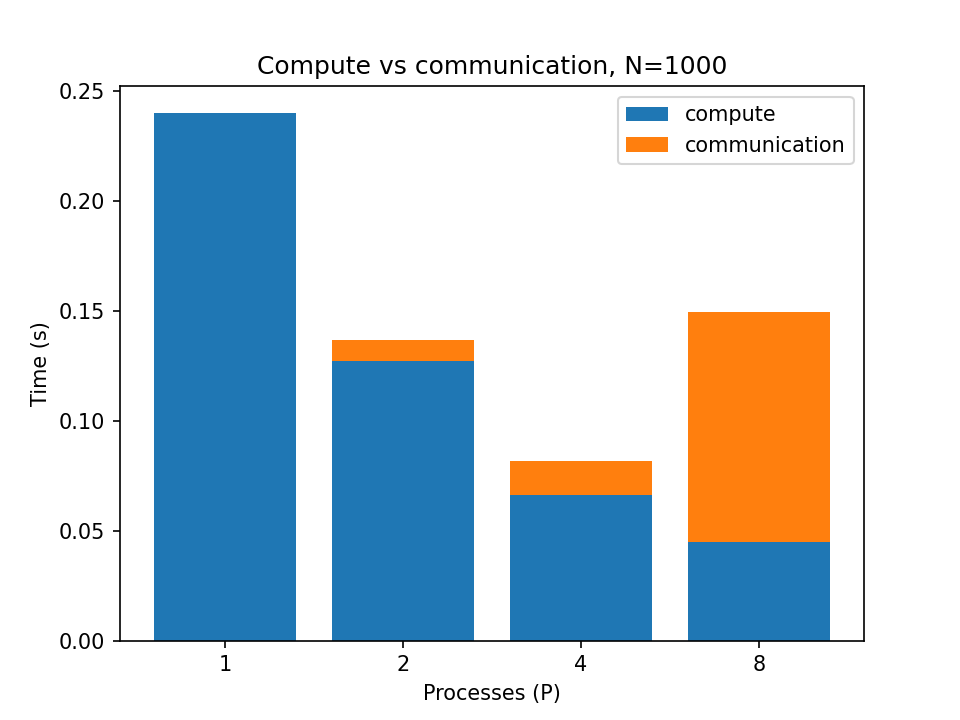
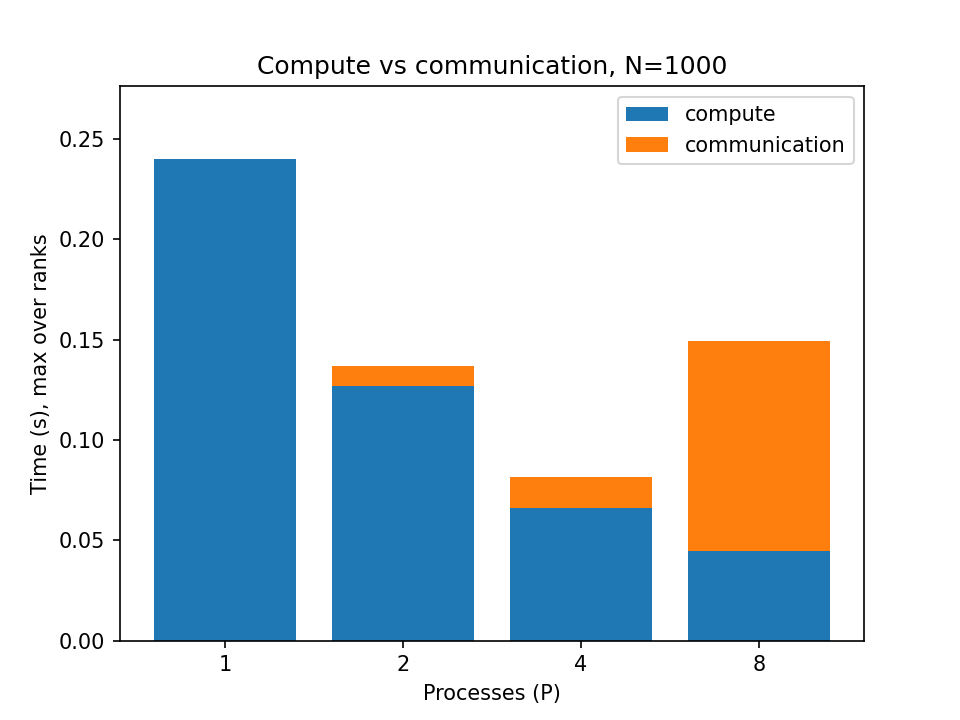
README Barnes-Hut section, extra figures, fixed bar charts

diff --git a/scripts/plot_extra.py b/scripts/plot_extra.py
@@ -1,0 +1,76 @@
+"""Extra figures for the report.
+
+1. results/time_vs_N.png       total time vs N (log-log), sequential and MPI P=1,2,4,8
+2. results/decomposition.png   block decomposition for N=1003, P=4 and the Allgatherv step
+
+Run after plot.py (needs results/seq.csv and results/mpi.csv):
+    python3 scripts/plot_extra.py
+"""
+import pandas as pd
+import matplotlib
+matplotlib.use("Agg")
+import matplotlib.pyplot as plt
+from matplotlib.patches import FancyBboxPatch, FancyArrowPatch
+
+main_N = [100, 500, 1000, 5000, 10000]
+
+# ---------- 1. Total time vs N ----------
+seq = pd.read_csv("results/seq.csv").groupby("N")["total"].median()
+mpi = pd.read_csv("results/mpi.csv").groupby(["N", "P"])["total"].median().reset_index()
+
+plt.figure()
+plt.plot(main_N, [seq[n] for n in main_N], "k^-", label="sequential")
+for P in [1, 2, 4, 8]:
+    d = mpi[(mpi.P == P) & (mpi.N.isin(main_N))].sort_values("N")
+    plt.plot(d.N, d.total, "o-", label=f"MPI, P={P}")
+plt.xscale("log"); plt.yscale("log")
+plt.xlabel("Number of bodies N"); plt.ylabel("Total time for 100 steps (s)")
+plt.title("Total time vs N (direct method)")
+plt.grid(True, which="both", alpha=0.3); plt.legend()
+plt.savefig("results/time_vs_N.png", dpi=150)
+print("Saved results/time_vs_N.png")
+
+# ---------- 2. Decomposition diagram ----------
+N, P = 1003, 4
+base, rem = N // P, N % P
+counts = [base + (1 if r < rem else 0) for r in range(P)]
+displs = [sum(counts[:r]) for r in range(P)]
+colors = ["#4C72B0", "#DD8452", "#55A868", "#C44E52"]
+
+fig, ax = plt.subplots(figsize=(10, 5.2))
+ax.set_xlim(0, 10); ax.set_ylim(0, 5.2); ax.axis("off")
+
+# Global position array split into blocks
+ax.text(5, 4.95, f"Position array of all N = {N} bodies (x, y, z interleaved, 24N bytes)",
+        ha="center", fontsize=11, weight="bold")
+x0, width = 0.5, 9.0
+for r in range(P):
+    w = width * counts[r] / N
+    x = x0 + width * displs[r] / N
+    ax.add_patch(plt.Rectangle((x, 4.15), w, 0.55, color=colors[r], alpha=0.85))
+    ax.text(x + w / 2, 4.42, f"[{displs[r]}, {displs[r] + counts[r]})\n{counts[r]} bodies",
+            ha="center", va="center", fontsize=9, color="white", weight="bold")
+
+# Ranks
+for r in range(P):
+    cx = 1.0 + r * 2.35
+    ax.add_patch(FancyBboxPatch((cx, 1.75), 1.75, 1.45, boxstyle="round,pad=0.05",
+                                fc="white", ec=colors[r], lw=2))
+    ax.text(cx + 0.875, 2.95, f"Rank {r}", ha="center", fontsize=11, weight="bold", color=colors[r])
+    ax.text(cx + 0.875, 2.42, f"updates {counts[r]} bodies\n(own v, a)\nholds all N positions",
+            ha="center", va="center", fontsize=8.5)
+    xb = x0 + width * (displs[r] + counts[r] / 2) / N
+    ax.add_patch(FancyArrowPatch((xb, 4.12), (cx + 0.875, 3.27), arrowstyle="-|>",
+                                 mutation_scale=12, color=colors[r], lw=1.5))
+    ax.add_patch(FancyArrowPatch((cx + 0.875, 1.72), (cx + 0.875, 1.05), arrowstyle="-|>",
+                                 mutation_scale=12, color="0.3", lw=1.5))
+
+# Allgatherv bar
+ax.add_patch(FancyBboxPatch((0.9, 0.45), 9.0 - 0.6, 0.55, boxstyle="round,pad=0.05",
+                            fc="#EEEEEE", ec="0.3", lw=1.5))
+ax.text(5.1, 0.72, "MPI_Allgatherv (MPI_IN_PLACE): every rank receives all updated positions",
+        ha="center", va="center", fontsize=10, weight="bold")
+ax.text(5.1, 0.12, f"base = N / P = {base},  rem = N mod P = {rem}:  ranks r < rem get base + 1  "
+        f"->  counts = {counts}", ha="center", fontsize=9, style="italic")
+plt.savefig("results/decomposition.png", dpi=150, bbox_inches="tight")
+print("Saved results/decomposition.png")

diff --git a/scripts/plot.py b/scripts/plot.py
@@ -38,7 +38,8 @@ for N in main_N:
     plt.figure()
     plt.bar(d.P.astype(str), d.comp, label="compute")
     plt.bar(d.P.astype(str), d.comm, bottom=d.comp, label="communication")
-    plt.xlabel("Processes (P)"); plt.ylabel("Time (s)"); plt.legend()
+    plt.ylim(0, (d.comp + d.comm).max() * 1.15)
+    plt.xlabel("Processes (P)"); plt.ylabel("Time (s), max over ranks"); plt.legend()
     plt.title(f"Compute vs communication, N={N}")
     plt.savefig(f"results/breakdown_N{N}.png", dpi=150)
 

diff --git a/scripts/plot_bh.py b/scripts/plot_bh.py
@@ -54,7 +54,8 @@ s = m[m.N == N].sort_values("P")
 plt.figure()
 plt.bar(s.P.astype(str), s.comp, label="compute")
 plt.bar(s.P.astype(str), s.comm, bottom=s.comp, label="communication")
-plt.xlabel("Processes (P)"); plt.ylabel("Time (s)")
+plt.ylim(0, (s.comp + s.comm).max() * 1.15)
+plt.xlabel("Processes (P)"); plt.ylabel("Time (s), max over ranks")
 plt.title(f"MPI Barnes-Hut: compute vs communication, N={N}")
 plt.legend()
 plt.savefig("results/bh_breakdown.png", dpi=150)

diff --git a/README.md b/README.md
@@ -10,6 +10,11 @@ method. There is a sequential baseline and an MPI version that splits the
 bodies across processes. Both use the same physics code (`src/common.c`),
 and the MPI results are verified against the sequential results.
 
+As an advanced extension, the project also contains a Barnes-Hut octree
+version (O(N log N), approximate) in both sequential and MPI form
+(`src/bh.c`, `src/seq_bh.c`, `src/mpi_bh.c`). The direct method stays the
+baseline for all correctness and speedup measurements.
+
 ## 2. Environment used for the reported results
 
 - CPU: Intel Core i5-8350U @ 1.70 GHz, 4 vCPUs (VMware Workstation)
@@ -33,21 +38,34 @@ sudo apt install -y build-essential openmpi-bin libopenmpi-dev \
 ./scripts/build.sh
 ```
 
-This builds four programs in `bin/`:
+This builds seven programs in `bin/`:
 
 | Program | Purpose |
 |---|---|
-| `seq` | sequential baseline |
-| `mpi_nbody` | MPI version (positions sent in one interleaved Allgatherv) |
+| `seq` | sequential direct baseline |
+| `mpi_nbody` | MPI direct version (positions sent in one interleaved Allgatherv) |
 | `mpi_nbody_3calls` | MPI variant (x, y, z in separate arrays, 3 Allgatherv calls) |
 | `traj` | saves trajectories for plotting |
+| `seq_bh` | sequential Barnes-Hut |
+| `mpi_bh` | MPI Barnes-Hut (same decomposition and Allgatherv as `mpi_nbody`) |
+| `bh_accuracy` | force error of Barnes-Hut against the direct method for several theta |
 
 ## 5. Run
 
 ```bash
 ./bin/seq N STEPS [outfile]
 mpirun --oversubscribe -np P ./bin/mpi_nbody N STEPS [outfile]
+mpirun --oversubscribe -np P ./bin/mpi_nbody_3calls N STEPS [outfile]
+
+./bin/seq_bh N STEPS THETA [outfile]
+mpirun --oversubscribe -np P ./bin/mpi_bh N STEPS THETA [outfile]
+./bin/bh_accuracy N
+./bin/traj N STEPS EVERY [outfile]
 ```
+
+`outfile` (optional) receives the final positions, used by the verification scripts.
+`THETA` is the Barnes-Hut opening angle (0.5 in all experiments).
+The MPI programs print the block owned by each rank to stderr at startup.
 
 Example:
 
@@ -58,7 +76,8 @@ mpirun --oversubscribe -np 4 ./bin/mpi_nbody 1000 100
 
 Output (CSV, one line):
 - seq: `N,steps,time,energy_start,energy_end`
-- mpi: `N,P,steps,total,compute_max,comm_max,imbalance,energy_start,energy_end`
+- mpi (`mpi_nbody`, `mpi_nbody_3calls`, `mpi_bh`): `N,P,steps,total,compute_max,comm_max,imbalance,energy_start,energy_end`
+- seq_bh: same as seq
 
 `--oversubscribe` is needed when P is larger than the number of cores (P=8 on 4 vCPUs).
 
@@ -75,6 +94,7 @@ Output (CSV, one line):
 | initial velocities | uniform in [-0.1, 0.1] per component |
 | integrator | velocity-Verlet (leapfrog) |
 | steps used in experiments | 100 |
+| Barnes-Hut opening angle theta | 0.5 |
 
 ## 7. Data decomposition
 
@@ -93,6 +113,15 @@ Compares final positions of the MPI runs against the sequential run for
 N = 100, 1000, 1003, 5001 and P = 1, 2, 4, 8. Tolerance: 1e-9.
 Expected: all lines PASS (observed max difference: 0).
 
+```bash
+./scripts/verify_bh.sh
+```
+
+Checks MPI Barnes-Hut against sequential Barnes-Hut (tolerance 1e-9, observed 0)
+for N = 1000, 1003, 5001 and P = 1, 2, 4, 8, and sequential Barnes-Hut against
+the direct method (tolerance 1e-2, because Barnes-Hut is approximate;
+observed 1.5e-3 to 2.2e-3).
+
 ## 9. Reproduce the experiments
 
 ```bash
@@ -105,19 +134,33 @@ python3 scripts/compare.py  # compare_summary.csv + comm_compare.png
 
 ./bin/traj 100 1000 10
 python3 scripts/plot_traj.py   # trajectories.png
+python3 scripts/plot_extra.py  # time_vs_N.png + decomposition.png
+
+# Barnes-Hut extension
+./bin/bh_accuracy 1000         # force error table for several theta
+./scripts/run_bh_seq.sh        # direct vs Barnes-Hut, sequential, back to back
+./scripts/run_bh.sh            # direct seq, BH seq, BH MPI (P=1,2,4,8), N up to 20000
+python3 scripts/plot_bh.py     # bh_seq_summary.csv, bh_mpi_summary.csv + 3 graphs
 ```
+
+Timings on a shared VM drift between sessions, so every speedup is computed
+from runs measured in the same session (back to back). For Barnes-Hut MPI use
+`speedup_vs_bhseq`; `speedup_vs_direct_seq` mixes in a slow direct baseline and
+should not be quoted.
 
 Run each script once, with no other heavy programs running. Medians over
 repetitions are reported. Raw logs are in `results/` (`seq.csv`, `mpi.csv`,
-`compare.csv`).
+`compare.csv`, `bh.csv`, `bh_seq_check.csv`).
 
 ## 10. Folder structure
 
 ```
 nbody/
   src/        common.h common.c seq.c mpi_nbody.c mpi_nbody_3calls.c traj.c
+              bh.h bh.c seq_bh.c mpi_bh.c bh_accuracy.c
   scripts/    build.sh verify.sh verify.py run_seq.sh run_mpi.sh
-              run_compare.sh plot.py compare.py plot_traj.py
+              run_compare.sh plot.py compare.py plot_traj.py plot_extra.py
+              verify_bh.sh run_bh_seq.sh run_bh.sh run_direct_again.sh plot_bh.py
   bin/        compiled programs
   results/    CSV logs and graphs
   README.md
